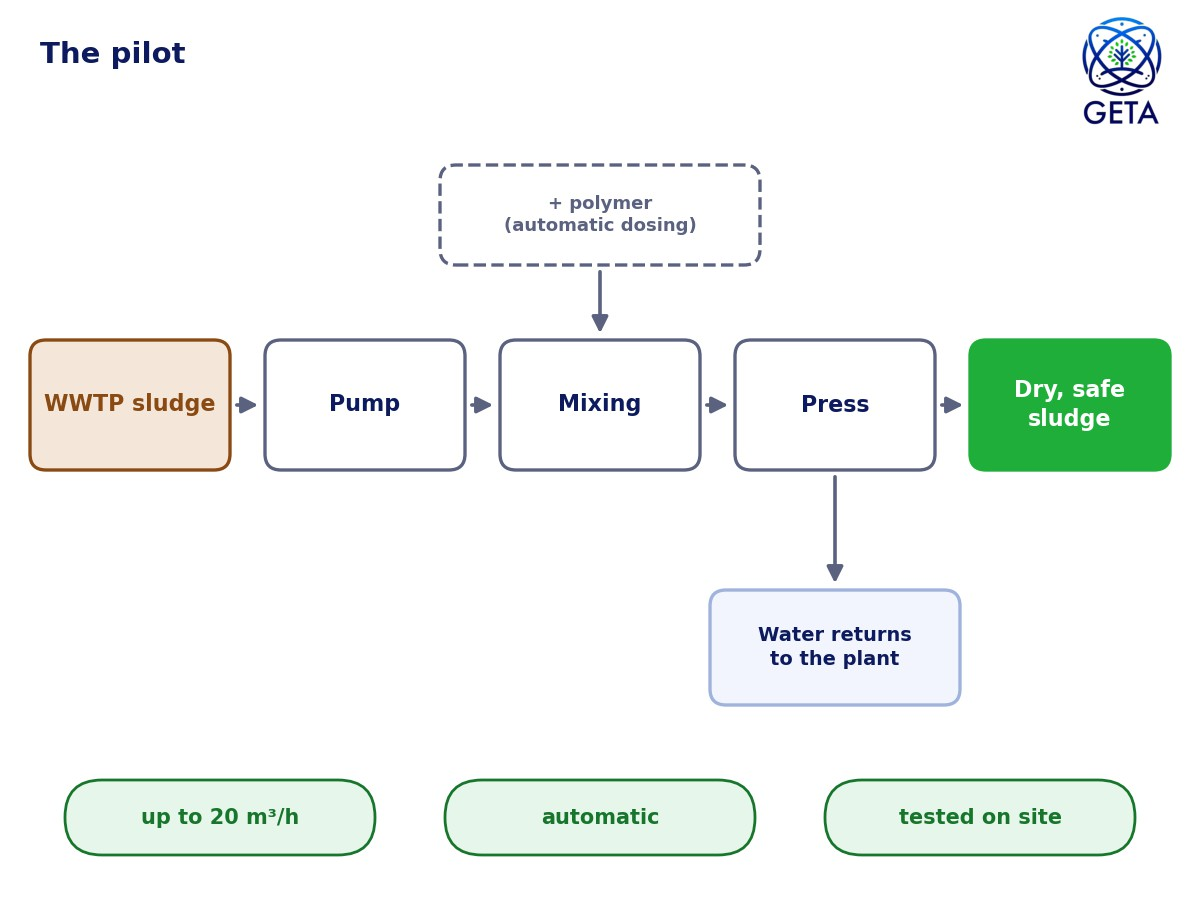
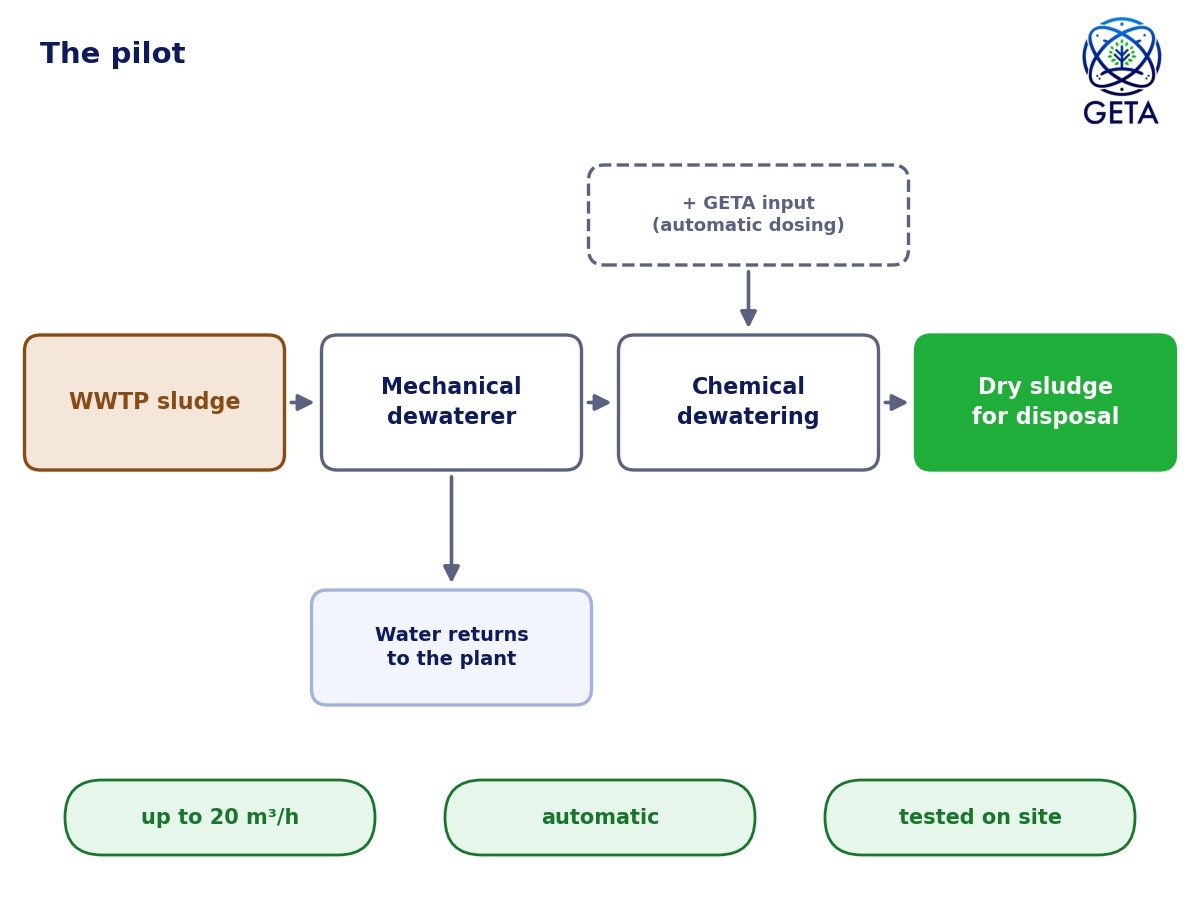
Inertização: diagramas com desidratação física e química, insumos GETA e lodo perigoso → inerte; textos alinhados

diff --git a/assets/i18n-inertizacao.js b/assets/i18n-inertizacao.js
@@ -66,17 +66,17 @@
     // ---- Vídeo explicativo
     [`Nossa rota tecnológica`, `Our technology route`, `Nuestra ruta tecnológica`],
     [`A inertização de lodos em 1 minuto`, `Sludge inertization in 1 minute`, `La inertización de lodos en 1 minuto`],
-    [`Do desafio do lodo de ETE ao sólido não lixiviável: veja como os polímeros GETA atuam no floco, as etapas do processo e os testes com lodo real.`,
-     `From the challenge of WWTP sludge to a non-leachable solid: see how GETA polymers act on the floc, the process steps and the tests with real sludge.`,
-     `Del desafío del lodo de PTAR al sólido no lixiviable: vea cómo actúan los polímeros GETA en el flóculo, las etapas del proceso y las pruebas con lodo real.`],
+    [`Do desafio do lodo de ETE ao sólido não lixiviável: veja como os insumos GETA atuam no floco, as etapas do processo e os testes com lodo real.`,
+     `From the challenge of WWTP sludge to a non-leachable solid: see how GETA inputs act on the floc, the process steps and the tests with real sludge.`,
+     `Del desafío del lodo de PTAR al sólido no lixiviable: vea cómo actúan los insumos GETA en el flóculo, las etapas del proceso y las pruebas con lodo real.`],
     [`Assistir ao vídeo`, `Watch the video`, `Ver el video`],
 
     // ---- Solução GETA
     [`Solução GETA`, `GETA solution`, `Solución GETA`],
     [`Lodo mais seco e mais seguro, em uma só etapa`, `Drier, safer sludge in a single step`, `Lodo más seco y más seguro, en una sola etapa`],
     [`1 de 4 · Como funciona`, `1 of 4 · How it works`, `1 de 4 · Cómo funciona`],
-    [`Um produto que prende os metais e solta a água`, `A product that locks in metals and releases water`, `Un producto que atrapa los metales y suelta el agua`],
-    [`Antes de secar o lodo, misturamos a ele um produto próprio da GETA, feito de polímeros. Ele faz duas coisas ao mesmo tempo: segura os metais dentro do lodo e deixa a água sair com facilidade.`, `Before drying the sludge, we mix in GETA's own polymer-based product. It does two things at once: it holds the metals inside the sludge and lets the water drain out easily.`, `Antes de secar el lodo, le mezclamos un producto propio de GETA, hecho de polímeros. Hace dos cosas al mismo tiempo: retiene los metales dentro del lodo y deja salir el agua con facilidad.`],
+    [`Insumos que prendem os metais e soltam a água`, `Inputs that lock in metals and release water`, `Insumos que atrapan los metales y sueltan el agua`],
+    [`Depois da desidratação física, o lodo recebe os insumos químicos da GETA. Eles fazem duas coisas ao mesmo tempo: prendem os metais dentro do lodo e liberam a água que ainda restava.`, `After physical dewatering, the sludge receives GETA's chemical inputs. They do two things at once: they lock the metals inside the sludge and release the water that was still left.`, `Después de la deshidratación física, el lodo recibe los insumos químicos de GETA. Hacen dos cosas al mismo tiempo: atrapan los metales dentro del lodo y liberan el agua que todavía quedaba.`],
     [`O que acontece`, `What happens`, `Qué ocurre`],
     [`As partículas do lodo se juntam`, `The sludge particles clump together`, `Las partículas del lodo se juntan`],
     [`Os metais ficam presos`, `The metals stay locked in`, `Los metales quedan atrapados`],
@@ -86,9 +86,9 @@
     [`Em uma só etapa, o lodo fica mais seco e deixa de contaminar.`, `In a single step, the sludge becomes drier and stops polluting.`, `En una sola etapa, el lodo queda más seco y deja de contaminar.`],
     [`2 de 4 · O processo`, `2 of 4 · The process`, `2 de 4 · El proceso`],
     [`Quatro etapas simples`, `Four simple steps`, `Cuatro etapas simples`],
-    [`A tecnologia se encaixa na estação que já existe. O lodo passa por quatro etapas e sai pronto para ser destinado.`, `The technology fits into the existing plant. The sludge goes through four steps and comes out ready for disposal.`, `La tecnología se adapta a la planta que ya existe. El lodo pasa por cuatro etapas y sale listo para su destino.`],
+    [`O lodo passa por quatro etapas e sai seco e pronto para disposição.`, `The sludge goes through four steps and comes out dry and ready for disposal.`, `El lodo pasa por cuatro etapas y sale seco y listo para disposición.`],
     [`Etapas`, `Steps`, `Etapas`],
-    [`Misturar: o lodo recebe os polímeros`, `Mix: the sludge receives the polymers`, `Mezclar: el lodo recibe los polímeros`],
+    [`Misturar: o lodo recebe os insumos químicos`, `Mix: the sludge receives the chemical inputs`, `Mezclar: el lodo recibe los insumos químicos`],
     [`Adensar: os flocos ficam mais firmes`, `Thicken: the flocs become firmer`, `Espesar: los flóculos quedan más firmes`],
     [`Desaguar: a água sai mais rápido`, `Dewater: the water drains faster`, `Deshidratar: el agua sale más rápido`],
     [`Destinar: sai um sólido seguro e menor`, `Dispose: a smaller, safe solid comes out`, `Disponer: sale un sólido seguro y más pequeño`],
@@ -96,14 +96,14 @@
     [`Usa os equipamentos que a estação já tem.`, `Uses the equipment the plant already has.`, `Usa los equipos que la planta ya tiene.`],
     [`3 de 4 · Antes e depois`, `3 of 4 · Before and after`, `3 de 4 · Antes y después`],
     [`Menos volume, menos custo, mais segurança`, `Less volume, lower cost, more safety`, `Menos volumen, menos costo, más seguridad`],
-    [`Com menos água, o lodo pesa menos e ocupa menos espaço. E, como os metais ficam presos, ele pode ter destinos que antes não eram possíveis.`, `With less water, the sludge weighs less and takes up less space. And because the metals stay locked in, it can go to destinations that were not possible before.`, `Con menos agua, el lodo pesa menos y ocupa menos espacio. Y, como los metales quedan atrapados, puede tener destinos que antes no eran posibles.`],
+    [`Com menos água, o lodo pesa menos e ocupa menos espaço. E, com os metais encapsulados, ele deixa de ser um resíduo perigoso e passa a ser inerte.`, `With less water, the sludge weighs less and takes up less space. And with the metals encapsulated, it stops being a hazardous waste and becomes inert.`, `Con menos agua, el lodo pesa menos y ocupa menos espacio. Y, con los metales encapsulados, deja de ser un residuo peligroso y pasa a ser inerte.`],
     [`Vantagens`, `Advantages`, `Ventajas`],
     [`Pelo menos 50% menos umidade (esperado no piloto)`, `At least 50% less moisture (expected in the pilot)`, `Al menos 50% menos humedad (esperado en el piloto)`],
     [`Não solta poluentes em contato com a água`, `Releases no pollutants in contact with water`, `No suelta contaminantes en contacto con el agua`],
     [`Pouco produto: cerca de 3 mL por litro de lodo`, `Little product: about 3 mL per litre of sludge`, `Poco producto: cerca de 3 mL por litro de lodo`],
     [`Vem de uma tecnologia que já funciona em grande escala`, `Comes from a technology already working at large scale`, `Viene de una tecnología que ya funciona a gran escala`],
     [`Resultado`, `Result`, `Resultado`],
-    [`Menos caminhões, menos aterro e um resíduo que não contamina.`, `Fewer trucks, less landfill and a waste that does not pollute.`, `Menos camiones, menos relleno y un residuo que no contamina.`],
+    [`Menos caminhões, menos aterro e um resíduo inerte.`, `Fewer trucks, less landfill and an inert waste.`, `Menos camiones, menos relleno y un residuo inerte.`],
     [`4 de 4 · O piloto`, `4 of 4 · The pilot`, `4 de 4 · El piloto`],
     [`Pronto para testar na sua estação`, `Ready to test at your plant`, `Listo para probar en su planta`],
     [`Antes de levar a tecnologia para a escala real, instalamos um piloto na própria estação. Ele trata até 20 m³ de lodo por hora e mostra o resultado com o lodo de verdade.`, `Before taking the technology to full scale, we install a pilot at the plant itself. It treats up to 20 m³ of sludge per hour and shows the result with the real sludge.`, `Antes de llevar la tecnología a la escala real, instalamos un piloto en la propia planta. Trata hasta 20 m³ de lodo por hora y muestra el resultado con el lodo real.`],
@@ -115,6 +115,13 @@
     [`Escala`, `Scale`, `Escala`],
     [`O piloto pode ser ajustado para estações menores ou maiores.`, `The pilot can be adjusted for smaller or larger plants.`, `El piloto puede ajustarse a plantas más pequeñas o más grandes.`],
     [`Sólido não lixiviável (ABNT NBR 10004)`, `Non-leachable solid (ABNT NBR 10004)`, `Sólido no lixiviable (ABNT NBR 10004)`],
+    [`Metais encapsulados quimicamente`, `Metals chemically encapsulated`, `Metales encapsulados químicamente`],
+    [`Não lixivia em contato com a água`, `Does not leach in contact with water`, `No lixivia en contacto con el agua`],
+    [`Um lodo mais seco, inerte e pronto para disposição.`, `A drier, inert sludge ready for disposal.`, `Un lodo más seco, inerte y listo para disposición.`],
+    [`O lodo passa pelo desidratador mecânico`, `The sludge goes through the mechanical dewaterer`, `El lodo pasa por el deshidratador mecánico`],
+    [`A água separada volta para a estação`, `The separated water returns to the plant`, `El agua separada vuelve a la planta`],
+    [`Na desidratação química, o insumo GETA é dosado de forma automática`, `In chemical dewatering, the GETA input is dosed automatically`, `En la deshidratación química, el insumo GETA se dosifica de forma automática`],
+    [`Sai um lodo seco, pronto para disposição`, `Dry sludge comes out, ready for disposal`, `Sale un lodo seco, listo para disposición`],
     [`Tecnologia derivada da rota de chorume da GETA, com pedido de patente BR 10 2026 020875 2 (INPI).`,
      `Technology derived from GETA's leachate route, under patent application BR 10 2026 020875 2 (INPI).`,
      `Tecnología derivada de la ruta de lixiviados de GETA, con solicitud de patente BR 10 2026 020875 2 (INPI).`],

diff --git a/tecnologia-inertizacao.html b/tecnologia-inertizacao.html
@@ -97,7 +97,7 @@
           <span class="eyebrow">Nossa rota tecnológica</span>
           <h2>A inertização de lodos em 1 minuto</h2>
         </div>
-        <p>Do desafio do lodo de ETE ao sólido não lixiviável: veja como os polímeros GETA atuam no floco, as etapas do processo e os testes com lodo real.</p>
+        <p>Do desafio do lodo de ETE ao sólido não lixiviável: veja como os insumos GETA atuam no floco, as etapas do processo e os testes com lodo real.</p>
       </div>
       <div class="tp-video-box">
         <video src="img/tecnologias/inertizacao/rota-inertizacao.mp4?v=20261127n" poster="img/tecnologias/inertizacao/rota-inertizacao.jpg?v=20261127n" preload="none" playsinline aria-label="Vídeo explicativo da tecnologia GETA de inertização de lodos de ETE"></video>
@@ -114,10 +114,10 @@
       <div class="tp-mapas-grid">
         <div>
           <div class="tp-mapas-fig">
-          <img src="img/tecnologias/inertizacao/lodo-mecanismo.jpg?v=20261127s" alt="Diagrama: o lodo úmido com metais recebe os polímeros GETA, que prendem os metais e soltam a água; o resultado é um lodo mais seco e seguro" class="on">
-          <img src="img/tecnologias/inertizacao/lodo-processo.jpg?v=20261127s" alt="Diagrama do processo em 4 etapas: misturar, adensar, desaguar e destinar" loading="lazy">
-          <img src="img/tecnologias/inertizacao/lodo-comparacao.jpg?v=20261127s" alt="Antes e depois: o lodo comum tem muita água, pode soltar metais e só vai ao aterro; o lodo GETA é mais seco, não solta poluentes e abre novos usos" loading="lazy">
-          <img src="img/tecnologias/inertizacao/lodo-piloto.jpg?v=20261127s" alt="Diagrama do piloto: o lodo entra, é misturado com polímero, passa pela prensa e sai seco; a água volta para a estação" loading="lazy">
+          <img src="img/tecnologias/inertizacao/lodo-mecanismo.jpg?v=20261127u" alt="Diagrama: lodo úmido, desidratação física, desidratação química com insumos GETA e lodo seco para disposição; abaixo, o floco antes e depois" class="on">
+          <img src="img/tecnologias/inertizacao/lodo-processo.jpg?v=20261127u" alt="Diagrama do processo em 4 etapas: misturar, adensar, desaguar e destinar" loading="lazy">
+          <img src="img/tecnologias/inertizacao/lodo-comparacao.jpg?v=20261127u" alt="Antes e depois do tratamento GETA: de lodo úmido a lodo mais seco, de lixiviação fácil a encapsulamento químico, de lodo perigoso a lodo inerte" loading="lazy">
+          <img src="img/tecnologias/inertizacao/lodo-piloto.jpg?v=20261127u" alt="Diagrama de blocos do piloto: lodo de ETE, desidratador mecânico, desidratação química com insumo GETA e lodo seco para disposição; a água volta para a estação" loading="lazy">
           </div>
           <div class="tp-mapas-nav">
             <button type="button" class="tp-prev" aria-label="Anterior">‹</button>
@@ -129,8 +129,8 @@
           <div class="tp-mapas-txt" aria-live="polite">
           <article class="on">
             <span class="tp-mapas-tag">1 de 4 · Como funciona</span>
-            <h3>Um produto que prende os metais e solta a água</h3>
-            <p>Antes de secar o lodo, misturamos a ele um produto próprio da GETA, feito de polímeros. Ele faz duas coisas ao mesmo tempo: segura os metais dentro do lodo e deixa a água sair com facilidade.</p>
+            <h3>Insumos que prendem os metais e soltam a água</h3>
+            <p>Depois da desidratação física, o lodo recebe os insumos químicos da GETA. Eles fazem duas coisas ao mesmo tempo: prendem os metais dentro do lodo e liberam a água que ainda restava.</p>
             <b class="tp-list-t">O que acontece</b>
             <ul class="tp-imp-list"><li>As partículas do lodo se juntam</li><li>Os metais ficam presos</li><li>A água sai com mais facilidade</li><li>O lodo fica firme e estável</li></ul>
             <div class="tp-mapas-geta"><b>Em resumo</b><p>Em uma só etapa, o lodo fica mais seco e deixa de contaminar.</p></div>
@@ -138,25 +138,25 @@
           <article>
             <span class="tp-mapas-tag">2 de 4 · O processo</span>
             <h3>Quatro etapas simples</h3>
-            <p>A tecnologia se encaixa na estação que já existe. O lodo passa por quatro etapas e sai pronto para ser destinado.</p>
+            <p>O lodo passa por quatro etapas e sai seco e pronto para disposição.</p>
             <b class="tp-list-t">Etapas</b>
-            <ul class="tp-imp-list"><li>Misturar: o lodo recebe os polímeros</li><li>Adensar: os flocos ficam mais firmes</li><li>Desaguar: a água sai mais rápido</li><li>Destinar: sai um sólido seguro e menor</li></ul>
-            <div class="tp-mapas-geta"><b>Na prática</b><p>Usa os equipamentos que a estação já tem.</p></div>
+            <ul class="tp-imp-list"><li>Misturar: o lodo recebe os insumos químicos</li><li>Adensar: os flocos ficam mais firmes</li><li>Desaguar: a água sai mais rápido</li><li>Destinar: sai um sólido seguro e menor</li></ul>
+            <div class="tp-mapas-geta"><b>Resultado</b><p>Um lodo mais seco, inerte e pronto para disposição.</p></div>
           </article>
           <article>
             <span class="tp-mapas-tag">3 de 4 · Antes e depois</span>
             <h3>Menos volume, menos custo, mais segurança</h3>
-            <p>Com menos água, o lodo pesa menos e ocupa menos espaço. E, como os metais ficam presos, ele pode ter destinos que antes não eram possíveis.</p>
+            <p>Com menos água, o lodo pesa menos e ocupa menos espaço. E, com os metais encapsulados, ele deixa de ser um resíduo perigoso e passa a ser inerte.</p>
             <b class="tp-list-t">Vantagens</b>
-            <ul class="tp-imp-list"><li>Pelo menos 50% menos umidade (esperado no piloto)</li><li>Não solta poluentes em contato com a água</li><li>Pouco produto: cerca de 3 mL por litro de lodo</li><li>Vem de uma tecnologia que já funciona em grande escala</li></ul>
-            <div class="tp-mapas-geta"><b>Resultado</b><p>Menos caminhões, menos aterro e um resíduo que não contamina.</p></div>
+            <ul class="tp-imp-list"><li>Pelo menos 50% menos umidade (esperado no piloto)</li><li>Metais encapsulados quimicamente</li><li>Não lixivia em contato com a água</li><li>Vem de uma tecnologia que já funciona em grande escala</li></ul>
+            <div class="tp-mapas-geta"><b>Resultado</b><p>Menos caminhões, menos aterro e um resíduo inerte.</p></div>
           </article>
           <article>
             <span class="tp-mapas-tag">4 de 4 · O piloto</span>
             <h3>Pronto para testar na sua estação</h3>
             <p>Antes de levar a tecnologia para a escala real, instalamos um piloto na própria estação. Ele trata até 20 m³ de lodo por hora e mostra o resultado com o lodo de verdade.</p>
             <b class="tp-list-t">Como funciona o piloto</b>
-            <ul class="tp-imp-list"><li>Uma bomba leva o lodo para o sistema</li><li>O polímero é misturado de forma automática</li><li>A prensa separa a água do lodo</li><li>A água volta para a estação</li></ul>
+            <ul class="tp-imp-list"><li>O lodo passa pelo desidratador mecânico</li><li>A água separada volta para a estação</li><li>Na desidratação química, o insumo GETA é dosado de forma automática</li><li>Sai um lodo seco, pronto para disposição</li></ul>
             <div class="tp-mapas-geta"><b>Escala</b><p>O piloto pode ser ajustado para estações menores ou maiores.</p></div>
           </article>
           </div>
@@ -243,7 +243,7 @@
 </section>
 
 <script src="i18n.js?v=20261127t"></script>
-<script src="assets/i18n-inertizacao.js?v=20261127r"></script>
+<script src="assets/i18n-inertizacao.js?v=20261127u"></script>
 <script src="cases/cases.js?v=20261127l"></script>
 <script src="assets/mega.js?v=20261127l"></script>
 <script src="assets/portfolio.js?v=20261127l"></script>

diff --git a/tools/diagramas_lodo.py b/tools/diagramas_lodo.py
@@ -69,6 +69,26 @@ TR = {
  "Desaguamento rápido": ("Fast dewatering", "Deshidratación rápida"),
  "Só pode ir ao aterro": ("Can only go to landfill", "Solo puede ir al relleno"),
  "Abre novos usos": ("Opens up new uses", "Abre nuevos usos"),
+ # novos termos
+ "Lodo úmido": ("Wet sludge", "Lodo húmedo"),
+ "Desidratação\nfísica": ("Physical\ndewatering", "Deshidratación\nfísica"),
+ "Desidratação\nquímica": ("Chemical\ndewatering", "Deshidratación\nquímica"),
+ "Lodo seco para\ndisposição": ("Dry sludge\nfor disposal", "Lodo seco para\ndisposición"),
+ "+ insumos GETA": ("+ GETA inputs", "+ insumos GETA"),
+ "o lodo recebe os\ninsumos químicos": ("the sludge receives\nthe chemical inputs", "el lodo recibe los\ninsumos químicos"),
+ "Antes e depois do tratamento GETA": ("Before and after GETA treatment", "Antes y después del tratamiento GETA"),
+ "Lodo sem tratamento": ("Untreated sludge", "Lodo sin tratamiento"),
+ "Lodo tratado GETA": ("GETA-treated sludge", "Lodo tratado GETA"),
+ "UMIDADE": ("MOISTURE", "HUMEDAD"),
+ "METAIS": ("METALS", "METALES"),
+ "CLASSIFICAÇÃO": ("CLASSIFICATION", "CLASIFICACIÓN"),
+ "Lodo mais seco": ("Drier sludge", "Lodo más seco"),
+ "Lixivia com facilidade": ("Leaches easily", "Lixivia con facilidad"),
+ "Encapsulamento químico": ("Chemical encapsulation", "Encapsulamiento químico"),
+ "Lodo perigoso": ("Hazardous sludge", "Lodo peligroso"),
+ "Lodo inerte": ("Inert sludge", "Lodo inerte"),
+ "Desidratador\nmecânico": ("Mechanical\ndewaterer", "Deshidratador\nmecánico"),
+ "+ insumo GETA\n(dosagem automática)": ("+ GETA input\n(automatic dosing)", "+ insumo GETA\n(dosificación automática)"),
  # 4
  "O piloto": ("The pilot", "El piloto"),
  "Lodo entra": ("Sludge in", "Entra el lodo"),
@@ -125,15 +145,16 @@ def save(fig, name):
 
 # ── 1 · Como funciona ────────────────────────────────────────────────────
 fig, ax = canvas("Como funciona")
-# Fluxo: lodo → mistura (+ polímeros) → lodo seco
-RY, RH, RW = 5.1, 1.4, 3.2
-box(ax, 0.4, RY, RW, RH, "Lodo úmido\ncom metais", "conc", fs=18)
-box(ax, 4.4, RY, RW, RH, "Mistura", "proc", fs=19)
-box(ax, 8.4, RY, RW, RH, "Lodo mais seco\ne seguro", "out", fs=18)
-arrow(ax, 3.64, RY + RH / 2, 4.36, RY + RH / 2)
-arrow(ax, 7.64, RY + RH / 2, 8.36, RY + RH / 2)
-box(ax, 4.65, 7.0, 2.7, 0.75, "+ polímeros GETA", "add", fs=14)
-arrow(ax, 6.0, 6.96, 6.0, RY + RH + 0.04)
+# Fluxo: lodo úmido → desidratação física → desidratação química (+ insumos GETA) → lodo seco
+RY, RH, RW, RG = 5.1, 1.4, 2.55, 0.35
+fx = [0.375 + i * (RW + RG) for i in range(4)]
+for i, (t, k) in enumerate([("Lodo úmido", "conc"), ("Desidratação\nfísica", "proc"),
+                            ("Desidratação\nquímica", "proc"), ("Lodo seco para\ndisposição", "out")]):
+    box(ax, fx[i], RY, RW, RH, t, k, fs=16)
+    if i: arrow(ax, fx[i - 1] + RW + 0.04, RY + RH / 2, fx[i] - 0.04, RY + RH / 2)
+qx = fx[2] + RW / 2
+box(ax, qx - 1.4, 7.0, 2.8, 0.75, "+ insumos GETA", "add", fs=14)
+arrow(ax, qx, 6.96, qx, RY + RH + 0.04)
 # Ilustração: o floco antes e depois
 rng = np.random.default_rng(7)
 def floco(cx, cy, solto):
@@ -175,7 +196,7 @@ save(fig, "lodo-mecanismo.jpg")
 
 # ── 2 · Processo em 4 etapas ─────────────────────────────────────────────
 fig, ax = canvas("O processo em 4 etapas")
-steps = [("Misturar", "o lodo recebe\nos polímeros"), ("Adensar", "os flocos ficam\nmais firmes"),
+steps = [("Misturar", "o lodo recebe os\ninsumos químicos"), ("Adensar", "os flocos ficam\nmais firmes"),
          ("Desaguar", "a água sai\nmais rápido"), ("Destinar", "um sólido seguro\ne com menos volume")]
 # Mede o texto mais largo para centralizar o conjunto (caixa + descrição) na imagem
 rend = fig.canvas.get_renderer()
@@ -185,7 +206,7 @@ def largura(s, fs):
 BW, GAP = 3.6, 0.6
 tw = max(largura(_(d), 17) for _t, d in steps)
 x0 = (12 - (BW + GAP + tw)) / 2 + 0.2   # +0.2 compensa o círculo do número à esquerda
-ys = [6.45, 4.9, 3.35, 1.8]
+ys = [6.2, 4.6, 3.0, 1.4]
 for i, ((t, d), y) in enumerate(zip(steps, ys)):
     last = i == len(steps) - 1
     box(ax, x0, y, BW, 1.15, t, "out" if last else "proc", fs=20)
@@ -193,40 +214,43 @@ for i, ((t, d), y) in enumerate(zip(steps, ys)):
     ax.text(x0 + BW + GAP, y + 0.575, _(d), ha="left", va="center", fontsize=17, color=NAVY, linespacing=1.35)
     if not last:
         arrow(ax, x0 + BW / 2, y - 0.04, x0 + BW / 2, ys[i + 1] + 1.19)
-note(ax, 0.75, "Usa os equipamentos que a estação já tem")
 save(fig, "lodo-processo.jpg")
 
 # ── 3 · Antes e depois ───────────────────────────────────────────────────
-fig, ax = canvas("Antes e depois")
-C1, C2, CW = 0.6, 6.6, 4.8
-box(ax, C1, 6.65, CW, 0.95, "Lodo comum", "bad", fs=19)
-box(ax, C2, 6.65, CW, 0.95, "Lodo GETA", "out", fs=19)
-rows = [("Muita água", "Bem mais seco"), ("Pode soltar metais", "Não solta poluentes"),
-        ("Desaguamento lento", "Desaguamento rápido"), ("Só pode ir ao aterro", "Abre novos usos")]
-y = 5.3
-for a, b in rows:
-    box(ax, C1, y, CW, 1.0, a, "conc", fs=17)
-    box(ax, C2, y, CW, 1.0, b, "prod", fs=17)
-    arrow(ax, C1 + CW + 0.08, y + 0.5, C2 - 0.08, y + 0.5)
-    y -= 1.35
+fig, ax = canvas("Antes e depois do tratamento GETA")
+LX, LW = 0.35, 2.55
+C1, C2, CW = 3.25, 7.75, 3.9
+box(ax, C1, 6.6, CW, 0.95, "Lodo sem tratamento", "bad", fs=17)
+box(ax, C2, 6.6, CW, 0.95, "Lodo tratado GETA", "out", fs=17)
+rows = [("UMIDADE", "Lodo úmido", "Lodo mais seco"),
+        ("METAIS", "Lixivia com facilidade", "Encapsulamento químico"),
+        ("CLASSIFICAÇÃO", "Lodo perigoso", "Lodo inerte")]
+y = 4.95
+for lab, a, b in rows:
+    ax.add_patch(FancyBboxPatch((LX, y), LW, 1.25, boxstyle="round,pad=0,rounding_size=0.16", fc="#f6f7fc", ec="#dde3f3", lw=2))
+    ax.text(LX + LW / 2, y + 0.625, _(lab), ha="center", va="center", fontsize=14, color=NAVY, fontweight="bold")
+    box(ax, C1, y, CW, 1.25, a, "conc", fs=17)
+    box(ax, C2, y, CW, 1.25, b, "prod", fs=17)
+    arrow(ax, C1 + CW + 0.08, y + 0.625, C2 - 0.08, y + 0.625)
+    y -= 1.6
 save(fig, "lodo-comparacao.jpg")
 
 # ── 4 · Piloto ───────────────────────────────────────────────────────────
 fig, ax = canvas("O piloto")
-# Diagrama de blocos: entrada → processos → saída, com o polímero entrando na mistura
-seq = [("Lodo de ETE", "conc"), ("Bomba", "proc"), ("Mistura", "proc"), ("Prensa", "proc"), ("Lodo seco\ne seguro", "out")]
-w, gap, y, hh = 2.0, 0.35, 4.3, 1.3
-xs = [0.3 + i * (w + gap) for i in range(len(seq))]
+# Diagrama de blocos (PFD): entrada → desidratador mecânico → desidratação química (+ insumo GETA) → saída
+seq = [("Lodo de ETE", "conc"), ("Desidratador\nmecânico", "proc"), ("Desidratação\nquímica", "proc"), ("Lodo seco para\ndisposição", "out")]
+w, gap, y, hh = 2.6, 0.37, 4.3, 1.35
+xs = [0.245 + i * (w + gap) for i in range(len(seq))]
 for i, ((t, k), x) in enumerate(zip(seq, xs)):
     box(ax, x, y, w, hh, t, k, fs=16)
     if i: arrow(ax, xs[i - 1] + w + 0.04, y + hh / 2, x - 0.04, y + hh / 2)
-# entrada do polímero (tracejado) na mistura
+# entrada do insumo GETA (tracejado) na desidratação química
 mx = xs[2] + w / 2
-box(ax, mx - 1.6, 6.35, 3.2, 1.0, "+ polímero\n(dosagem automática)", "add", fs=13)
+box(ax, mx - 1.6, 6.35, 3.2, 1.0, "+ insumo GETA\n(dosagem automática)", "add", fs=13)
 arrow(ax, mx, 6.31, mx, y + hh + 0.04)
-# saída de água da prensa
-px = xs[3] + w / 2
-box(ax, xs[3] - 0.25, 1.95, w + 0.5, 1.15, "A água volta\npara a estação", "mid", fs=14)
+# saída de água do desidratador mecânico
+px = xs[1] + w / 2
+box(ax, xs[1] - 0.1, 1.95, w + 0.2, 1.15, "A água volta\npara a estação", "mid", fs=14)
 arrow(ax, px, y - 0.04, px, 3.14)
 for i, t in enumerate(["até 20 m³/h", "automático", "testado no local"]):
     cx = 2.2 + i * 3.8
